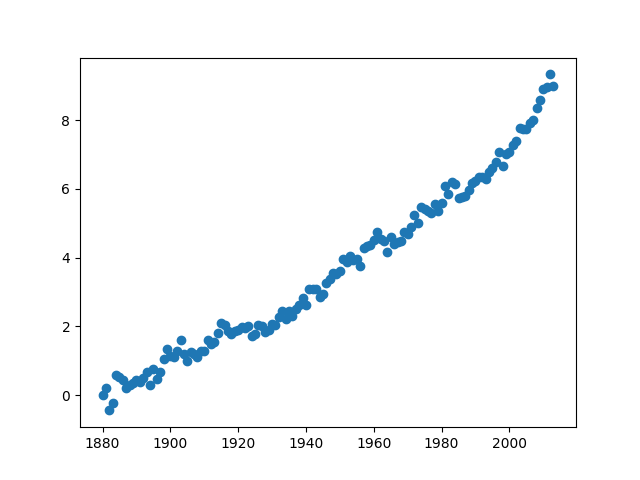
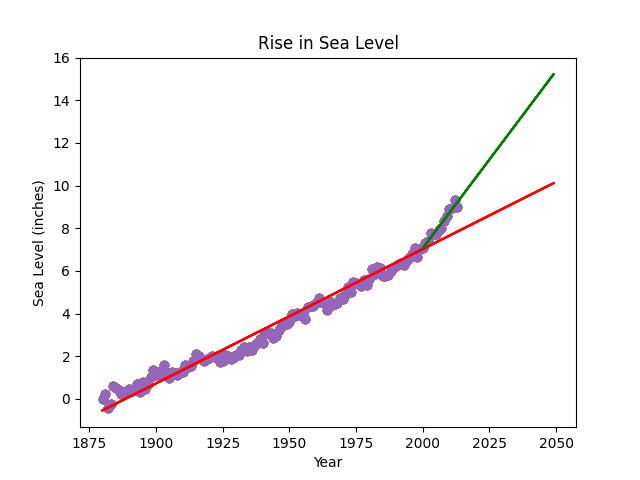
Final version

diff --git a/sea_level_predictor.py b/sea_level_predictor.py
@@ -5,18 +5,27 @@ from scipy.stats import linregress
 def draw_plot():
     # Read data from file
     df = pd.read_csv("epa-sea-level.csv")
-    print(df.head())
-
+    
     # Create scatter plot
     plt.scatter(x = 'Year', y = 'CSIRO Adjusted Sea Level', data = df)
 
     # Create first line of best fit
+    slope, intercept, r_value, p_value, std_err = linregress(x = df['Year'], y = df['CSIRO Adjusted Sea Level'] )
+    
+    years = df['Year'].append(pd.Series(range(2014, 2050)))
+    plt.plot(years, intercept + slope*years, 'r', label='fitted line')
 
 
     # Create second line of best fit
-
+    slope, intercept, r_value, p_value, std_err = linregress(x = df.loc[df['Year']>=2000, 'Year'], y = df.loc[df['Year']>=2000,'CSIRO Adjusted Sea Level'])
+    years = years.loc[years >= 2000]
+    
+    plt.plot(years, intercept + slope*years, 'g', label='fitted line2')
 
     # Add labels and title
+    plt.xlabel('Year')
+    plt.ylabel('Sea Level (inches)')
+    plt.title('Rise in Sea Level')
 
     
     # Save plot and return data for testing (DO NOT MODIFY)

diff --git a/main.py b/main.py
@@ -6,4 +6,4 @@ from unittest import main
 sea_level_predictor.draw_plot()
 
 # Run unit tests automatically
-#main(module='test_module', exit=False)
+main(module='test_module', exit=False)
